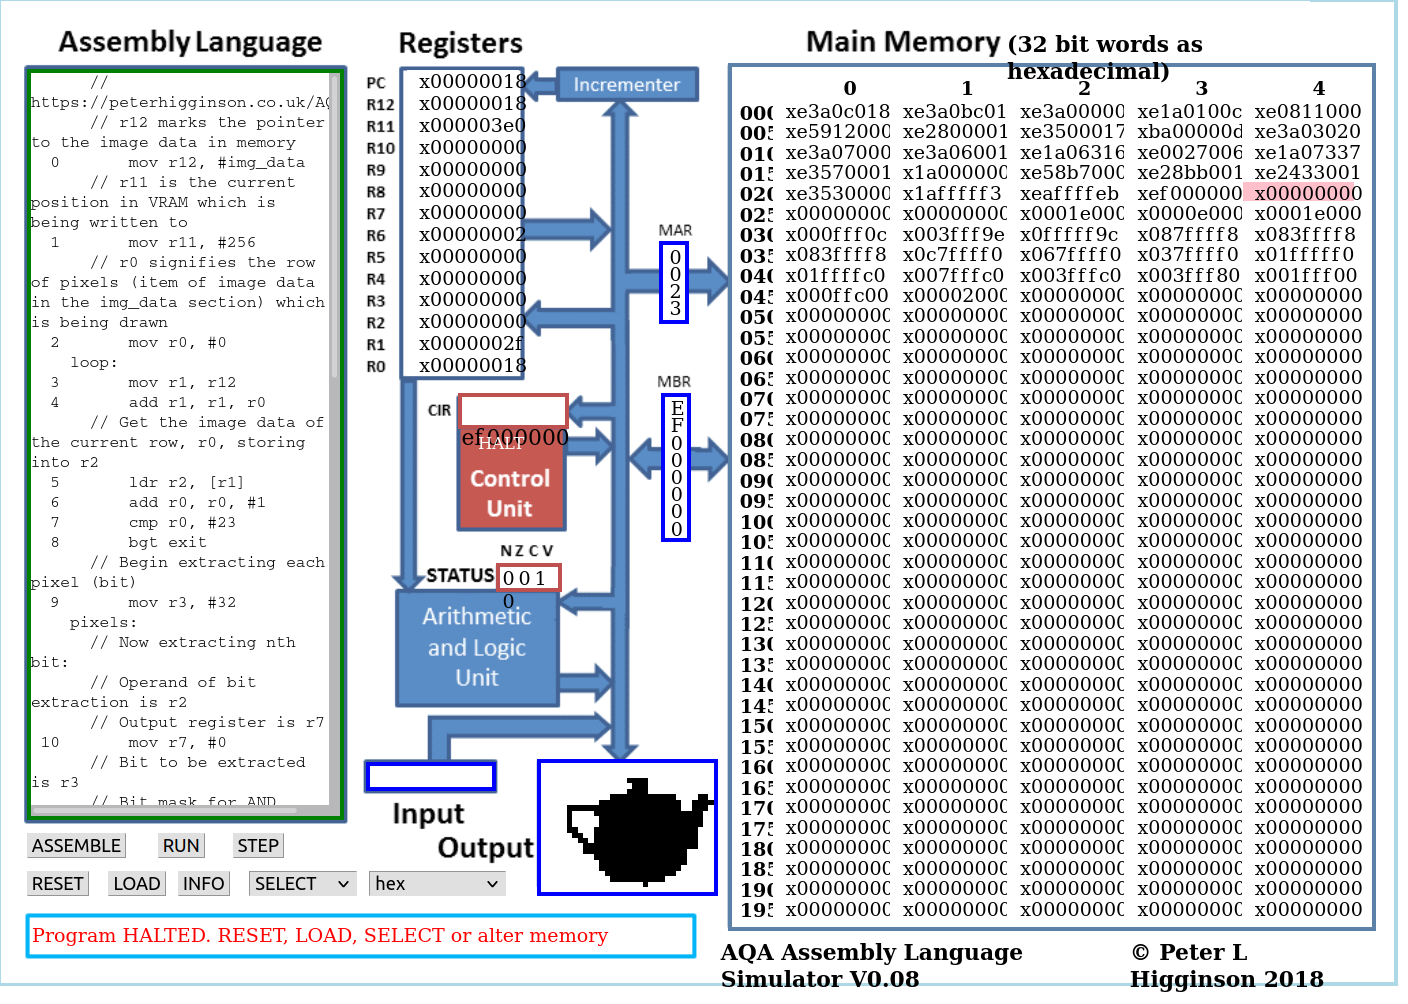
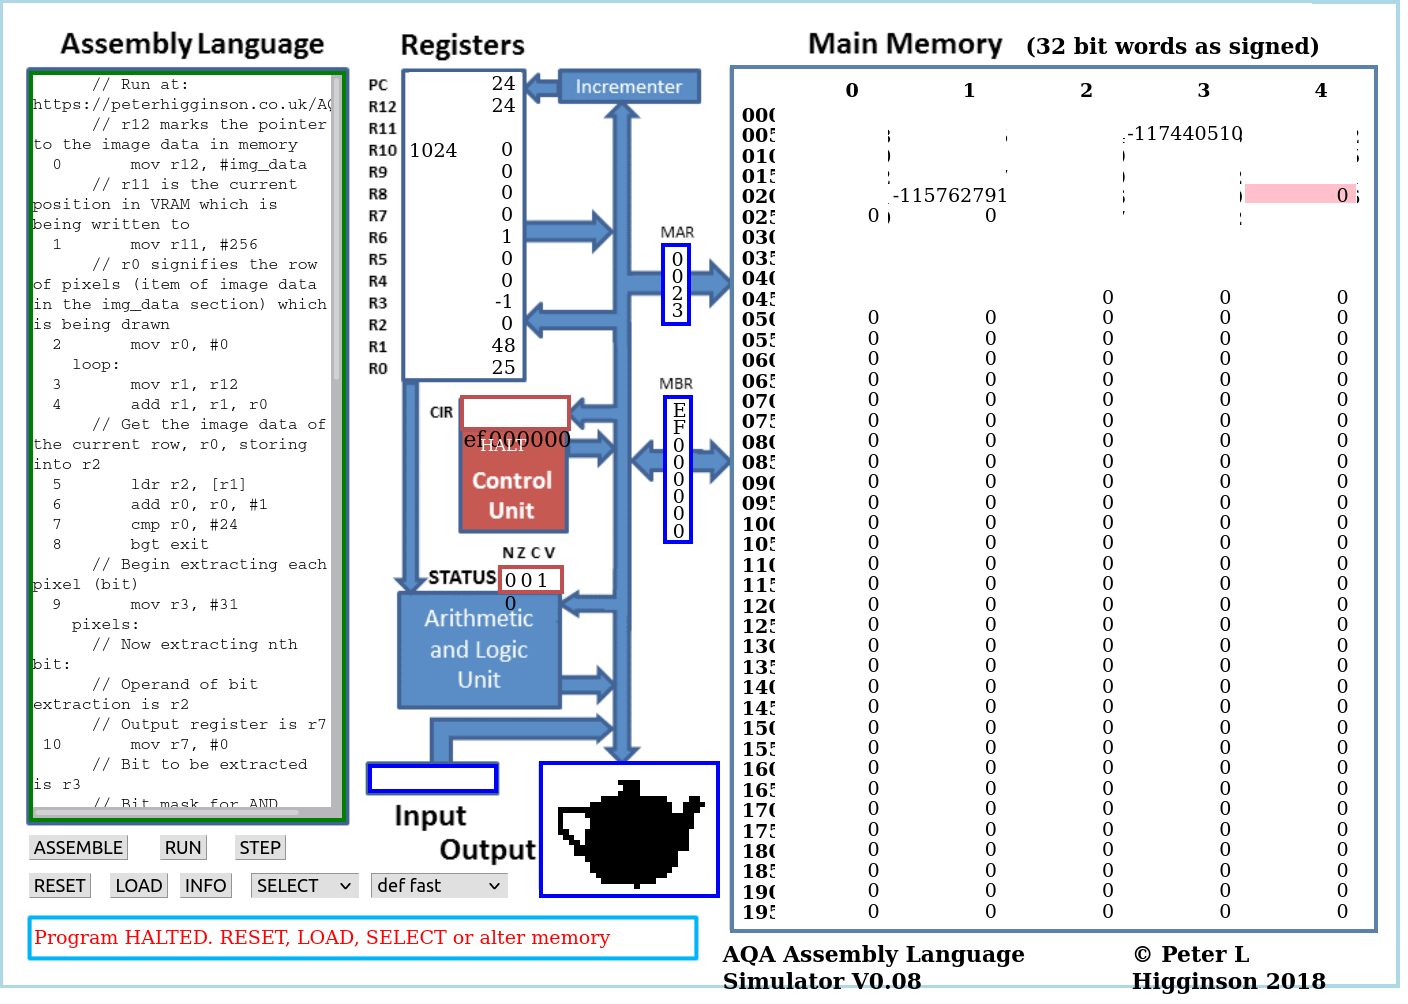
Update examples

Changed region(s): [[0.0, 0.0309, 1.0, 0.988], [0.9688, 0.0, 1.0, 0.0309], [0.0, 0.0, 0.0312, 0.0309]]

diff --git a/README.md b/README.md
@@ -14,12 +14,16 @@ or, as with the input image, through user input at runtime.
 The program depends on `PIL` (installation: `pip install Pillow`) to process the images. Furthermore, any user who has the `pyperclip` clipboard module may also benefit from having the program copied directly to the clipboard.
 
 ## Gallery
-![Teapot rendered](assets/utah_teapot.png "Teapot rendered in the virtual machine")
+### Utah teapot
+![Utah teapot](assets/utah_teapot.png "Teapot rendered in the virtual machine")
+
+### Reimu holding the apple
+![Bad Apple!! frame](assets/bad_apple.png "Opening frame from Bad Apple!! in the virtual machine")
 
 ## Example program
 Note: the only part that changes for each program is the `img_data` portion at the bottom of the file.
 The remainder of the assembly is able to render any such image data once it's placed in that section.
-This program is the example file in [output/teapot.asm](output/teapot.asm).
+This program is the example file in [examples/teapot.asm](output/teapot.asm).
 ```
 // Run at: https://peterhigginson.co.uk/AQA/
 // r12 marks the pointer to the image data in memory
